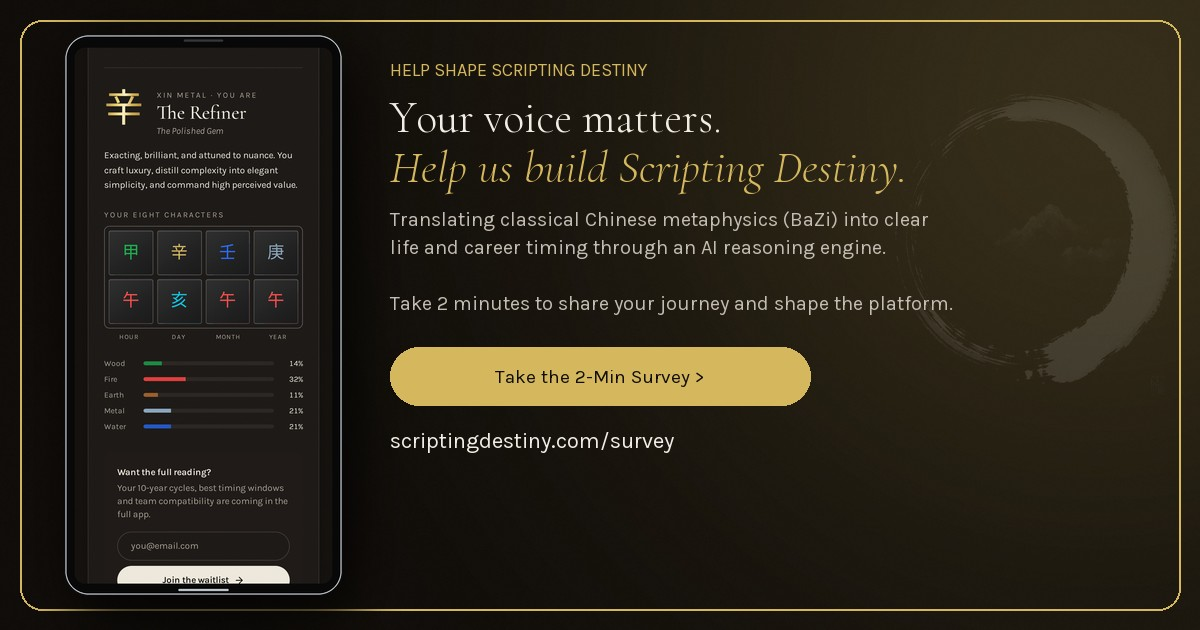
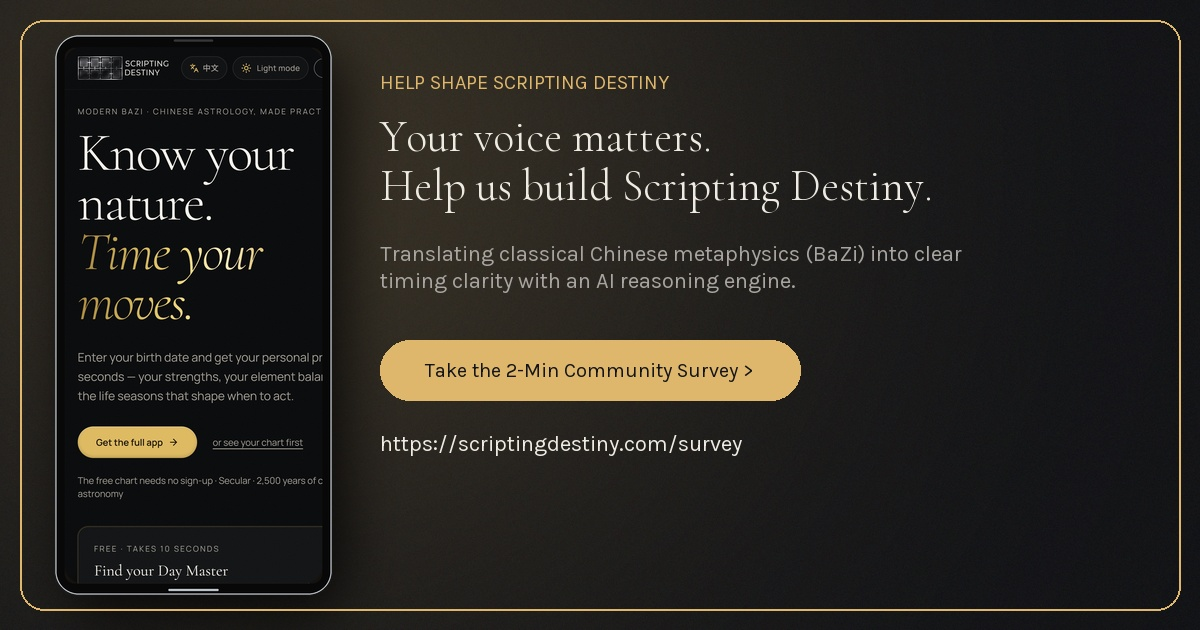
feat: refine chart-result view and update public share flyers with restored layout

diff --git a/src/routes/index.tsx b/src/routes/index.tsx
@@ -87,48 +87,54 @@ function Index() {
           </span>
         </div>
       )}
-      <header className="sticky top-0 z-50 w-full backdrop-blur-md bg-background/85 border-b border-border/30 transition-colors duration-300">
-        <div className="site-container flex items-center justify-between py-3.5 sm:py-4 2xl:py-5">
-          <a href="#top" aria-label="Scripting Destiny home" className="block">
-            <img
-              src={logo}
-              alt="Scripting Destiny"
-              className="brand-logo h-9 w-auto sm:h-11 2xl:h-13 transition-all"
-            />
-          </a>
-          <nav className="hidden gap-8 2xl:gap-12 3xl:gap-16 text-sm 2xl:text-base text-muted-foreground md:flex">
-            <a href="#how" className="hover:text-foreground transition-colors">
-              {t.nav.howItWorks}
+      {view !== "chart-result" && (
+        <header className="sticky top-0 z-50 w-full backdrop-blur-md bg-background/85 border-b border-border/30 transition-colors duration-300">
+          <div className="site-container flex items-center justify-between py-3.5 sm:py-4 2xl:py-5">
+            <a href="#top" aria-label="Scripting Destiny home" className="block">
+              <img
+                src={logo}
+                alt="Scripting Destiny"
+                className="brand-logo h-9 w-auto sm:h-11 2xl:h-13 transition-all"
+              />
             </a>
-            <a href="#elements" className="hover:text-foreground transition-colors">
-              {t.nav.elements}
-            </a>
-            <a href="#faq" className="hover:text-foreground transition-colors">
-              {t.nav.faq}
-            </a>
-            <a
-              href="https://blog.scriptingdestiny.com"
-              target="_blank"
-              rel="noopener noreferrer"
-              className="hover:text-foreground transition-colors"
-            >
-              {t.nav.blog}
-            </a>
-          </nav>
-          <div className="flex items-center gap-2 sm:gap-3 2xl:gap-4">
-            <LanguageToggle />
-            <ThemeToggle />
-            <a
-              href="#try"
-              className="rounded-full border border-foreground/40 px-3.5 py-1.5 2xl:px-5 2xl:py-2 text-xs sm:text-sm 2xl:text-base font-medium transition hover:bg-foreground hover:text-background shadow-sm"
-            >
-              {t.nav.tryItFree}
-            </a>
+            <nav className="hidden gap-8 2xl:gap-12 3xl:gap-16 text-sm 2xl:text-base text-muted-foreground md:flex">
+              <a href="#how" className="hover:text-foreground transition-colors">
+                {t.nav.howItWorks}
+              </a>
+              <a href="#elements" className="hover:text-foreground transition-colors">
+                {t.nav.elements}
+              </a>
+              <a href="#faq" className="hover:text-foreground transition-colors">
+                {t.nav.faq}
+              </a>
+              <a
+                href="https://blog.scriptingdestiny.com"
+                target="_blank"
+                rel="noopener noreferrer"
+                className="hover:text-foreground transition-colors"
+              >
+                {t.nav.blog}
+              </a>
+            </nav>
+            <div className="flex items-center gap-2 sm:gap-3 2xl:gap-4">
+              <LanguageToggle />
+              <ThemeToggle />
+              <a
+                href="#try"
+                className="rounded-full border border-foreground/40 px-3.5 py-1.5 2xl:px-5 2xl:py-2 text-xs sm:text-sm 2xl:text-base font-medium transition hover:bg-foreground hover:text-background shadow-sm"
+              >
+                {t.nav.tryItFree}
+              </a>
+            </div>
           </div>
-        </div>
-      </header>
+        </header>
+      )}
 
-      {view === "chart" || view === "free-chart" ? (
+      {view === "chart-result" ? (
+        <main className="site-container py-6 max-w-md">
+          <ChartTry />
+        </main>
+      ) : view === "chart" || view === "free-chart" ? (
         <main className="site-container py-6 sm:py-10 max-w-2xl">
           <ChartTry />
         </main>

diff --git a/src/components/site/ChartTry.tsx b/src/components/site/ChartTry.tsx
@@ -74,6 +74,87 @@ export function ChartTry() {
   };
 
   const stemInfo = chart ? getStem(chart.dayMaster.index) : null;
+  const isResultOnly = typeof window !== "undefined" && new URLSearchParams(window.location.search).get("view") === "chart-result";
+
+  if (isResultOnly && chart && stemInfo) {
+    return (
+      <div id="result" className="animate-in fade-in duration-300">
+        <div className="flex items-start gap-5">
+          <span
+            className={`font-serif text-6xl leading-none ${ELEMENT_METALLIC[chart.dayMaster.element]}`}
+          >
+            {chart.dayMaster.hanzi}
+          </span>
+          <div>
+            <p className="eyebrow">
+              {chart.dayMaster.pinyin} ·{" "}
+              {isZh ? ELEMENT_ZH_MAP[chart.dayMaster.element] : chart.dayMaster.element} ·{" "}
+              {t.chart.youAre}
+            </p>
+            <h3 className="font-serif text-3xl font-light">{stemInfo.title}</h3>
+            <p className="text-sm italic text-muted-foreground">{stemInfo.archetype}</p>
+          </div>
+        </div>
+        <p className="mt-4 text-sm leading-relaxed">{stemInfo.description}</p>
+
+        <div className="mt-6">
+          <p className="eyebrow mb-2">{t.chart.eightCharacters}</p>
+          <div className="grid grid-cols-4 gap-2 rounded-xl border border-accent/25 dark:border-accent/20 p-2 bg-background/40 backdrop-blur-sm shadow-inner">
+            {(["hour", "day", "month", "year"] as const).map((k) => (
+              <div
+                key={k + "s"}
+                className={`pillar-cell ${ELEMENT_TEXT[chart[k].stem.element]} ${k === "day" ? "is-day-master" : ""}`}
+              >
+                {chart[k].stem.hanzi}
+              </div>
+            ))}
+            {(["hour", "day", "month", "year"] as const).map((k) => (
+              <div
+                key={k + "b"}
+                className={`pillar-cell ${ELEMENT_TEXT[chart[k].branch.element]}`}
+              >
+                {chart[k].branch.hanzi}
+              </div>
+            ))}
+          </div>
+          <div className="mt-1.5 grid grid-cols-4 text-center text-[10px] uppercase tracking-widest text-muted-foreground">
+            <span>{t.chart.hour}</span>
+            <span>{t.chart.day}</span>
+            <span>{t.chart.month}</span>
+            <span>{t.chart.year}</span>
+          </div>
+        </div>
+
+        <div className="mt-6">
+          <p className="eyebrow mb-2">{t.chart.fiveElementsBalance}</p>
+          <div className="grid gap-2.5 rounded-lg border border-border/60 bg-background/30 p-3">
+            {(Object.keys(chart.elementBalance) as ElementType[]).map((el) => (
+              <div key={el} className="flex items-center gap-3 text-xs">
+                <span className="w-12 text-muted-foreground font-medium">
+                  {isZh ? ELEMENT_ZH_MAP[el] : el}
+                </span>
+                <div className="h-2 flex-1 overflow-hidden rounded-full bg-muted">
+                  <div
+                    className={`h-full ${ELEMENT_BAR[el]} transition-all duration-500`}
+                    style={{ width: `${chart.elementBalance[el]}%` }}
+                  />
+                </div>
+                <span className="w-8 text-right tabular-nums font-mono">
+                  {chart.elementBalance[el]}%
+                </span>
+              </div>
+            ))}
+          </div>
+        </div>
+
+        <div className="mt-6 rounded-xl bg-card border border-accent/20 p-5">
+          <p className="text-sm font-semibold">{t.chart.wantFullTitle}</p>
+          <p className="mb-4 mt-1 text-xs text-muted-foreground">{t.chart.wantFullDesc}</p>
+          <WaitlistForm compact />
+        </div>
+      </div>
+    );
+  }
 
   return (
     <div className="rounded-2xl 2xl:rounded-3xl border border-accent/25 dark:border-accent/20 bg-card p-6 shadow-xl dark:shadow-[0_30px_60px_-30px_oklch(0_0_0/0.7)] sm:p-8 2xl:p-10 transition-all ring-1 ring-accent/10">
